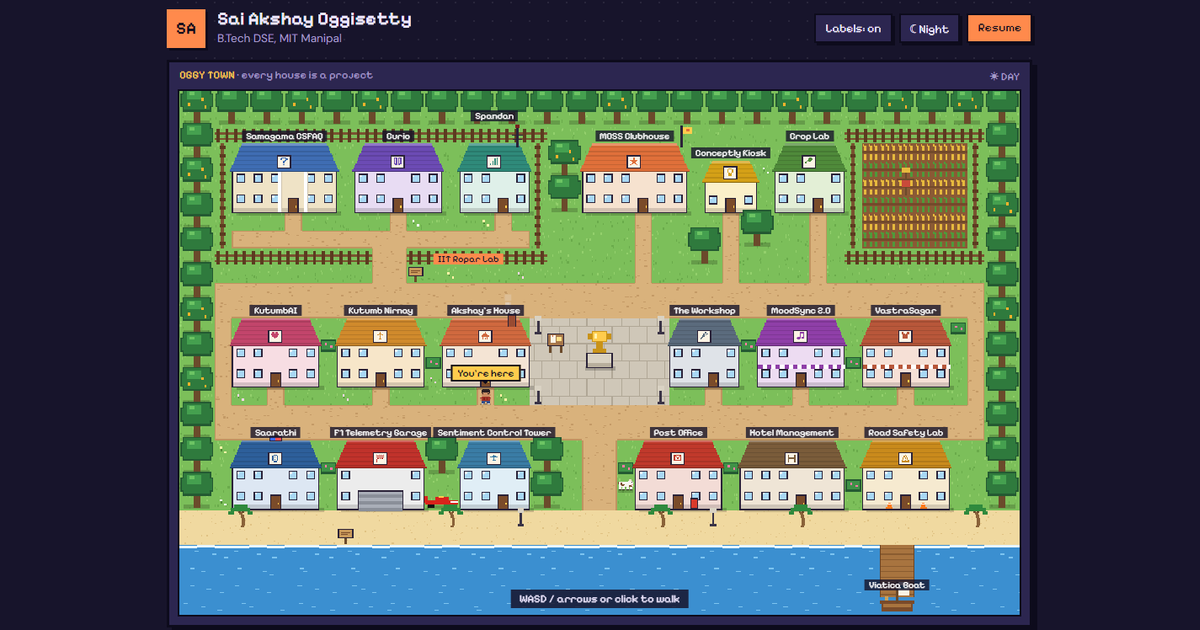
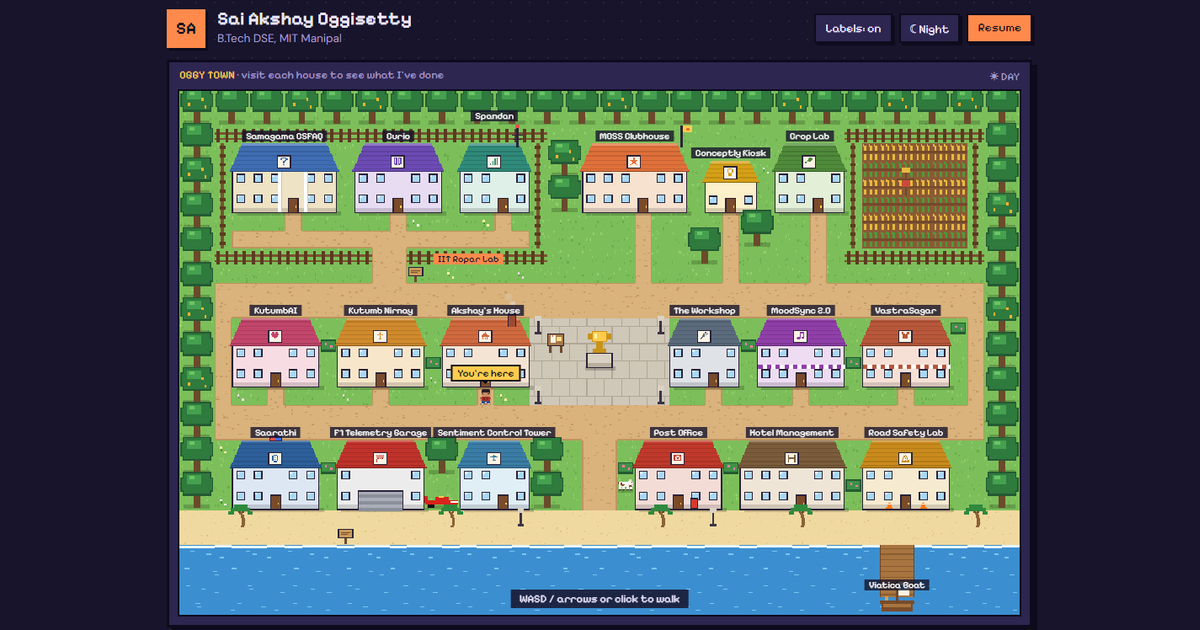
chore: new map tagline

diff --git a/index.html b/index.html
@@ -4,7 +4,7 @@
 <meta charset="utf-8">
 <meta name="viewport" content="width=device-width,initial-scale=1">
 <title>Oggy Town · Sai Akshay Oggisetty</title>
-<meta name="description" content="Sai Akshay Oggisetty's portfolio: a small pixel town where every house is a project.">
+<meta name="description" content="Sai Akshay Oggisetty's portfolio: a small pixel town. Visit each house to see what I've done.">
 <meta property="og:type" content="website">
 <meta property="og:url" content="https://akshayoggisetty.github.io/Portfolio/">
 <meta property="og:title" content="Oggy Town · Sai Akshay Oggisetty">
@@ -114,7 +114,7 @@
   </header>
 
   <div class="frame">
-    <div class="hud"><span><b>OGGY TOWN</b> · every house is a project</span><span id="clock">☀ DAY</span></div>
+    <div class="hud"><span><b>OGGY TOWN</b> · visit each house to see what I've done</span><span id="clock">☀ DAY</span></div>
     <div class="stage" id="stage">
       <canvas id="world" tabindex="0" aria-label="A pixel town. Move with arrow keys or WASD, or click a spot to walk there. Press Enter at a door to open that project. Every place is also listed below the map."></canvas>
       <canvas id="wipe"></canvas>
